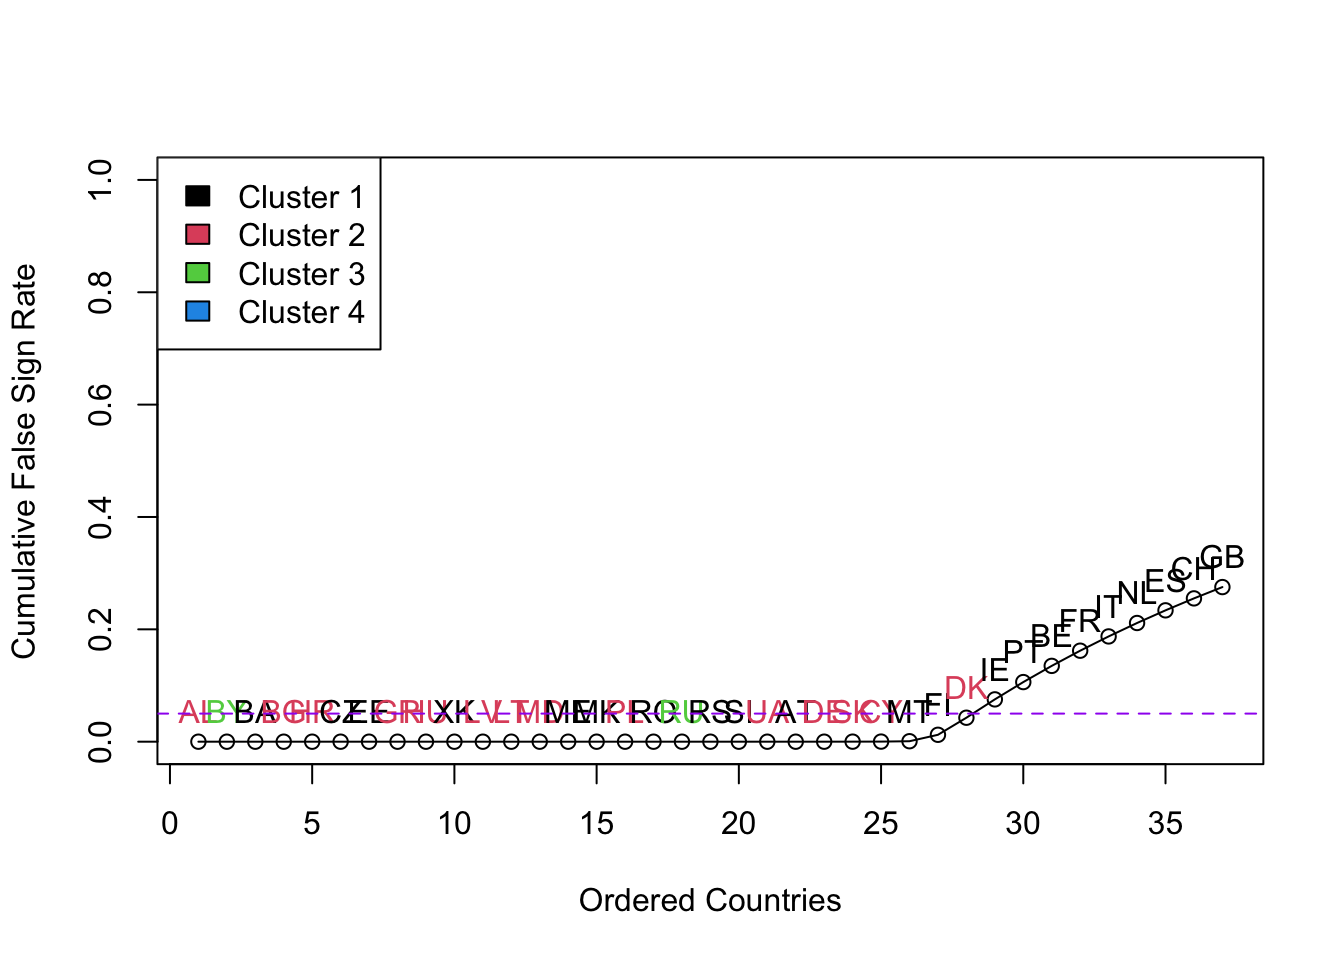
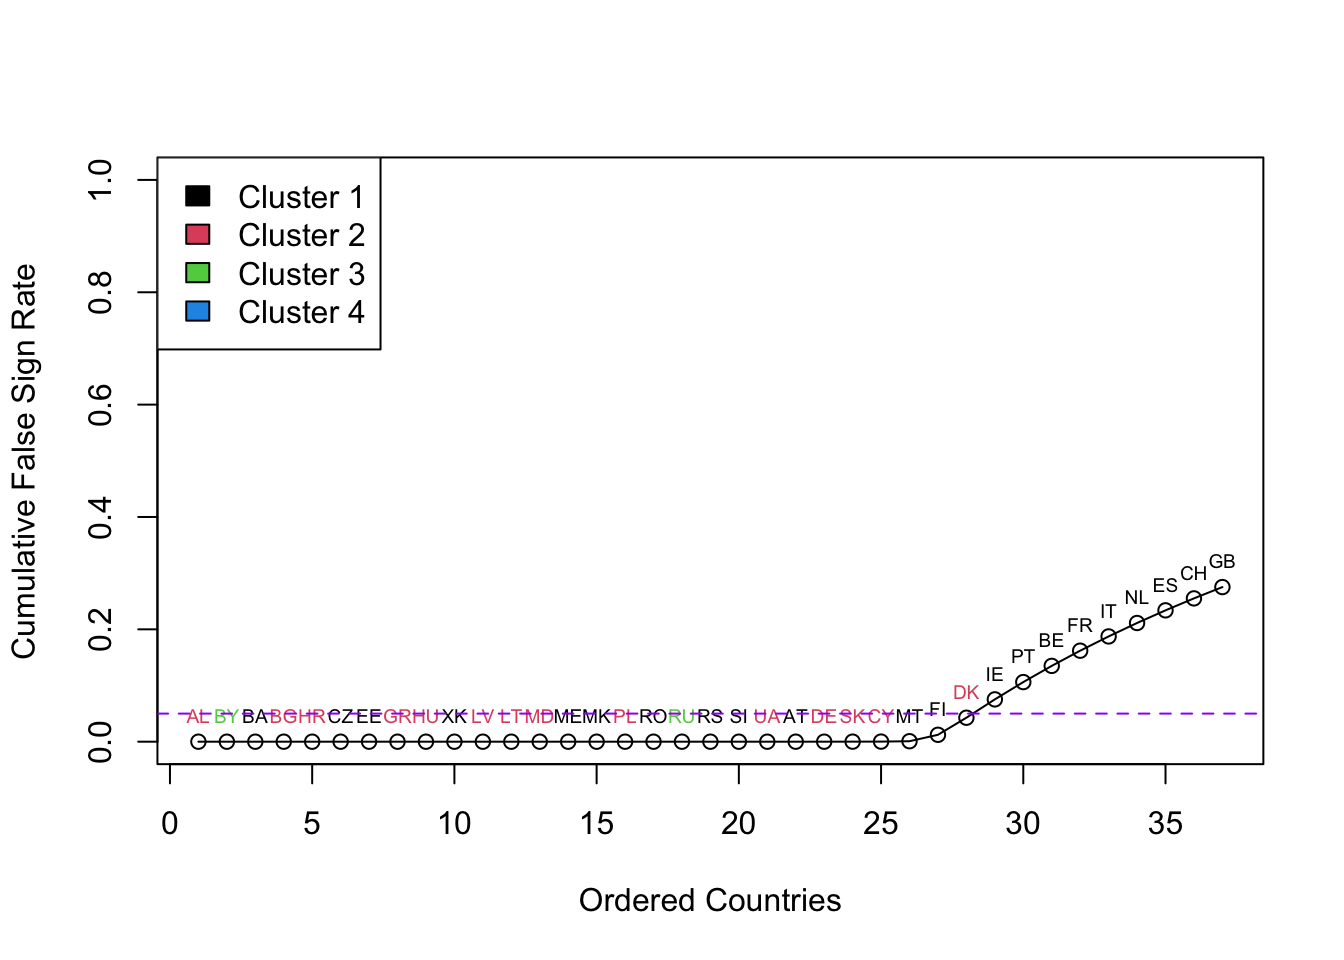
Build site.

Changed region(s): [[0.125, 0.6875, 0.75, 0.75], [0.75, 0.5625, 0.9375, 0.6875]]

diff --git a/docs/covid_example.html b/docs/covid_example.html
@@ -454,15 +454,15 @@ project makes it easier to run your code on other machines.</p>
 <div class="panel panel-default">
 <div class="panel-heading">
 <p class="panel-title">
-<a data-toggle="collapse" data-parent="#workflowr-checks" href="#strongRepositoryversionstrongahrefhttpsgithubcomAgueroZZFASHresultsummarytreeffc60c02d4c5692278285d2216b9181e670b7966targetblankffc60c0a">
+<a data-toggle="collapse" data-parent="#workflowr-checks" href="#strongRepositoryversionstrongahrefhttpsgithubcomAgueroZZFASHresultsummarytree8b21483eef1ab4634ebcac3d7f70072815c0e76etargetblank8b21483a">
 <span class="glyphicon glyphicon-ok text-success"
 aria-hidden="true"></span> <strong>Repository version:</strong>
-<a href="https://github.com/AgueroZZ/FASHresultsummary/tree/ffc60c02d4c5692278285d2216b9181e670b7966" target="_blank">ffc60c0</a>
+<a href="https://github.com/AgueroZZ/FASHresultsummary/tree/8b21483eef1ab4634ebcac3d7f70072815c0e76e" target="_blank">8b21483</a>
 </a>
 </p>
 </div>
 <div
[2 lines of base64/hex data omitted]
 class="panel-collapse collapse">
 <div class="panel-body">
 <p>
@@ -472,7 +472,7 @@ reproducibility.
 </p>
 <p>
 The results in this page were generated with repository version
-<a href="https://github.com/AgueroZZ/FASHresultsummary/tree/ffc60c02d4c5692278285d2216b9181e670b7966" target="_blank">ffc60c0</a>.
+<a href="https://github.com/AgueroZZ/FASHresultsummary/tree/8b21483eef1ab4634ebcac3d7f70072815c0e76e" target="_blank">8b21483</a>.
 See the <em>Past versions</em> tab to see a history of the changes made
 to the R Markdown and HTML files.
 </p>
@@ -582,6 +582,40 @@ Message
 </tr>
 </thead>
 <tbody>
+<tr>
+<td>
+Rmd
+</td>
+<td>
+<a href="https://github.com/AgueroZZ/FASHresultsummary/blob/8b21483eef1ab4634ebcac3d7f70072815c0e76e/analysis/covid_example.Rmd" target="_blank">8b21483</a>
+</td>
+<td>
+Ziang Zhang
+</td>
+<td>
+2024-05-27
+</td>
+<td>
+wflow_publish(files = "analysis/covid_example.Rmd")
+</td>
+</tr>
+<tr>
+<td>
+html
+</td>
+<td>
+<a href="https://rawcdn.githack.com/AgueroZZ/FASHresultsummary/8c38a399b5ec84d0a687fd322b4a7182cfd6fd1c/docs/covid_example.html" target="_blank">8c38a39</a>
+</td>
+<td>
+Ziang Zhang
+</td>
+<td>
+2024-05-27
+</td>
+<td>
+Build site.
+</td>
+</tr>
 <tr>
 <td>
 Rmd
@@ -897,6 +931,17 @@ Date
 <tbody>
 <tr>
 <td>
+<a href="https://github.com/AgueroZZ/FASHresultsummary/blob/8c38a399b5ec84d0a687fd322b4a7182cfd6fd1c/docs/figure/covid_example.Rmd/unnamed-chunk-3-1.png" target="_blank">8c38a39</a>
+</td>
+<td>
+Ziang Zhang
+</td>
+<td>
+2024-05-27
+</td>
+</tr>
+<tr>
+<td>
 <a href="https://github.com/AgueroZZ/FASHresultsummary/blob/574c0a1d89e247cb316d9ac322374ddc8209c5f8/docs/figure/covid_example.Rmd/unnamed-chunk-3-1.png" target="_blank">574c0a1</a>
 </td>
 <td>
@@ -991,6 +1036,17 @@ Date
 <tbody>
 <tr>
 <td>
+<a href="https://github.com/AgueroZZ/FASHresultsummary/blob/8c38a399b5ec84d0a687fd322b4a7182cfd6fd1c/docs/figure/covid_example.Rmd/unnamed-chunk-6-1.png" target="_blank">8c38a39</a>
+</td>
+<td>
+Ziang Zhang
+</td>
+<td>
+2024-05-27
+</td>
+</tr>
+<tr>
+<td>
 <a href="https://github.com/AgueroZZ/FASHresultsummary/blob/c77538439dcf55a178a6cba7728062bbf0c58d5f/docs/figure/covid_example.Rmd/unnamed-chunk-6-1.png" target="_blank">c775384</a>
 </td>
 <td>
@@ -1083,6 +1139,17 @@ Date
 </tr>
 </thead>
 <tbody>
+<tr>
+<td>
+<a href="https://github.com/AgueroZZ/FASHresultsummary/blob/8c38a399b5ec84d0a687fd322b4a7182cfd6fd1c/docs/figure/covid_example.Rmd/unnamed-chunk-9-1.png" target="_blank">8c38a39</a>
+</td>
+<td>
+Ziang Zhang
+</td>
+<td>
+2024-05-27
+</td>
+</tr>
 <tr>
 <td>
 <a href="https://github.com/AgueroZZ/FASHresultsummary/blob/c77538439dcf55a178a6cba7728062bbf0c58d5f/docs/figure/covid_example.Rmd/unnamed-chunk-9-1.png" target="_blank">c775384</a>
@@ -1180,6 +1247,17 @@ Date
 <tbody>
 <tr>
 <td>
+<a href="https://github.com/AgueroZZ/FASHresultsummary/blob/8c38a399b5ec84d0a687fd322b4a7182cfd6fd1c/docs/figure/covid_example.Rmd/unnamed-chunk-10-1.png" target="_blank">8c38a39</a>
+</td>
+<td>
+Ziang Zhang
+</td>
+<td>
+2024-05-27
+</td>
+</tr>
+<tr>
+<td>
 <a href="https://github.com/AgueroZZ/FASHresultsummary/blob/c77538439dcf55a178a6cba7728062bbf0c58d5f/docs/figure/covid_example.Rmd/unnamed-chunk-10-1.png" target="_blank">c775384</a>
 </td>
 <td>
@@ -1249,6 +1327,17 @@ Date
 <tbody>
 <tr>
 <td>
+<a href="https://github.com/AgueroZZ/FASHresultsummary/blob/8c38a399b5ec84d0a687fd322b4a7182cfd6fd1c/docs/figure/covid_example.Rmd/unnamed-chunk-11-1.png" target="_blank">8c38a39</a>
+</td>
+<td>
+Ziang Zhang
+</td>
+<td>
+2024-05-27
+</td>
+</tr>
+<tr>
+<td>
 <a href="https://github.com/AgueroZZ/FASHresultsummary/blob/c77538439dcf55a178a6cba7728062bbf0c58d5f/docs/figure/covid_example.Rmd/unnamed-chunk-11-1.png" target="_blank">c775384</a>
 </td>
 <td>
@@ -1311,6 +1400,17 @@ Date
 <tbody>
 <tr>
 <td>
+<a href="https://github.com/AgueroZZ/FASHresultsummary/blob/8c38a399b5ec84d0a687fd322b4a7182cfd6fd1c/docs/figure/covid_example.Rmd/unnamed-chunk-12-1.png" target="_blank">8c38a39</a>
+</td>
+<td>
+Ziang Zhang
+</td>
+<td>
+2024-05-27
+</td>
+</tr>
+<tr>
+<td>
 <a href="https://github.com/AgueroZZ/FASHresultsummary/blob/c77538439dcf55a178a6cba7728062bbf0c58d5f/docs/figure/covid_example.Rmd/unnamed-chunk-12-1.png" target="_blank">c775384</a>
 </td>
 <td>
@@ -1371,6 +1471,17 @@ Date
 </tr>
 </thead>
 <tbody>
+<tr>
+<td>
+<a href="https://github.com/AgueroZZ/FASHresultsummary/blob/8c38a399b5ec84d0a687fd322b4a7182cfd6fd1c/docs/figure/covid_example.Rmd/unnamed-chunk-13-1.png" target="_blank">8c38a39</a>
+</td>
+<td>
+Ziang Zhang
+</td>
+<td>
+2024-05-27
+</td>
+</tr>
 <tr>
 <td>
 <a href="https://github.com/AgueroZZ/FASHresultsummary/blob/c77538439dcf55a178a6cba7728062bbf0c58d5f/docs/figure/covid_example.Rmd/unnamed-chunk-13-1.png" target="_blank">c775384</a>
@@ -1486,6 +1597,43 @@ for (country in cluster1_countries[1:16]) {
   hist(samples, main = paste0(country), xlab = &quot;Delta - Initial&quot;, ylab = &quot;Frequency&quot;, col = &quot;blue&quot;, breaks = 50)
 }</code></pre>
 <p><img src="figure/covid_example.Rmd/unnamed-chunk-17-1.png" width="672" style="display: block; margin: auto;" /></p>
+<p>
+<button type="button" class="btn btn-default btn-xs btn-workflowr btn-workflowr-fig" data-toggle="collapse" data-target="#fig-unnamed-chunk-17-1">
+Past versions of unnamed-chunk-17-1.png
+</button>
+</p>
+<div id="fig-unnamed-chunk-17-1" class="collapse">
+<div class="table-responsive">
+<table class="table table-condensed table-hover">
+<thead>
+<tr>
+<th>
+Version
+</th>
+<th>
+Author
+</th>
+<th>
+Date
+</th>
+</tr>
+</thead>
+<tbody>
+<tr>
+<td>
+<a href="https://github.com/AgueroZZ/FASHresultsummary/blob/8c38a399b5ec84d0a687fd322b4a7182cfd6fd1c/docs/figure/covid_example.Rmd/unnamed-chunk-17-1.png" target="_blank">8c38a39</a>
+</td>
+<td>
+Ziang Zhang
+</td>
+<td>
+2024-05-27
+</td>
+</tr>
+</tbody>
+</table>
+</div>
+</div>
 <p>Produce a histogram for country in cluster 2:</p>
 <pre class="r"><code>par(mfrow = c(4, 4), mar = c(2, 2, 1, 1))
 for (country in cluster2_countries[1:14]) {
@@ -1515,6 +1663,17 @@ Date
 </tr>
 </thead>
 <tbody>
+<tr>
+<td>
+<a href="https://github.com/AgueroZZ/FASHresultsummary/blob/8c38a399b5ec84d0a687fd322b4a7182cfd6fd1c/docs/figure/covid_example.Rmd/unnamed-chunk-18-1.png" target="_blank">8c38a39</a>
+</td>
+<td>
+Ziang Zhang
+</td>
+<td>
+2024-05-27
+</td>
+</tr>
 <tr>
 <td>
 <a href="https://github.com/AgueroZZ/FASHresultsummary/blob/c77538439dcf55a178a6cba7728062bbf0c58d5f/docs/figure/covid_example.Rmd/unnamed-chunk-18-1.png" target="_blank">c775384</a>
@@ -1572,6 +1731,17 @@ Date
 <tbody>
 <tr>
 <td>
+<a href="https://github.com/AgueroZZ/FASHresultsummary/blob/8c38a399b5ec84d0a687fd322b4a7182cfd6fd1c/docs/figure/covid_example.Rmd/unnamed-chunk-19-1.png" target="_blank">8c38a39</a>
+</td>
+<td>
+Ziang Zhang
+</td>
+<td>
+2024-05-27
+</td>
+</tr>
+<tr>
+<td>
 <a href="https://github.com/AgueroZZ/FASHresultsummary/blob/c77538439dcf55a178a6cba7728062bbf0c58d5f/docs/figure/covid_example.Rmd/unnamed-chunk-19-1.png" target="_blank">c775384</a>
 </td>
 <td>
@@ -1609,7 +1779,7 @@ ordered_false_sign_rate_delta_more &lt;- sort(loca_false_sign_rate_delta_more)
 cumulative_false_sign_rate_delta_more &lt;- cumsum(ordered_false_sign_rate_delta_more)/seq_along(ordered_false_sign_rate_delta_more)
 clusters_ordered &lt;- clusters[match(names(ordered_false_sign_rate_delta_more), names(clusters))]
 plot(cumulative_false_sign_rate_delta_more, type = &quot;o&quot;, xlab = &quot;Ordered Countries&quot;, ylab = &quot;Cumulative False Sign Rate&quot;, ylim = c(0,1))
-text(1:length(cumulative_false_sign_rate_delta_more), cumulative_false_sign_rate_delta_more, labels = names(cumulative_false_sign_rate_delta_more), pos = 3, cex = 1, col = clusters_ordered)
+text(1:length(cumulative_false_sign_rate_delta_more), cumulative_false_sign_rate_delta_more, labels = names(cumulative_false_sign_rate_delta_more), pos = 3, cex = 0.6, col = clusters_ordered)
 legend(&quot;topleft&quot;, legend = c(&quot;Cluster 1&quot;, &quot;Cluster 2&quot;, &quot;Cluster 3&quot;, &quot;Cluster 4&quot;), fill = c(1, 2, 3, 4))
 abline(h = 0.05, col = &quot;purple&quot;, lty = &quot;dashed&quot;)</code></pre>
 <p><img src="figure/covid_example.Rmd/unnamed-chunk-20-1.png" width="672" style="display: block; margin: auto;" /></p>
@@ -1635,6 +1805,17 @@ Date
 </tr>
 </thead>
 <tbody>
+<tr>
+<td>
+<a href="https://github.com/AgueroZZ/FASHresultsummary/blob/8c38a399b5ec84d0a687fd322b4a7182cfd6fd1c/docs/figure/covid_example.Rmd/unnamed-chunk-20-1.png" target="_blank">8c38a39</a>
+</td>
+<td>
+Ziang Zhang
+</td>
+<td>
+2024-05-27
+</td>
+</tr>
 <tr>
 <td>
 <a href="https://github.com/AgueroZZ/FASHresultsummary/blob/c77538439dcf55a178a6cba7728062bbf0c58d5f/docs/figure/covid_example.Rmd/unnamed-chunk-20-1.png" target="_blank">c775384</a>
@@ -1685,7 +1866,7 @@ cumulative_false_sign_rate_initial_more</code></pre>
 0.724770270 </code></pre>
 <pre class="r"><code>clusters_ordered &lt;- clusters[match(names(ordered_false_sign_rate_initial_more), names(clusters))]
 plot(cumulative_false_sign_rate_initial_more, type = &quot;o&quot;, xlab = &quot;Ordered Countries&quot;, ylab = &quot;Cumulative False Sign Rate&quot;, ylim = c(0,1))
-text(1:length(cumulative_false_sign_rate_initial_more), cumulative_false_sign_rate_initial_more, labels = names(cumulative_false_sign_rate_initial_more), pos = 3, cex = 1, col = clusters_ordered)
+text(1:length(cumulative_false_sign_rate_initial_more), cumulative_false_sign_rate_initial_more, labels = names(cumulative_false_sign_rate_initial_more), pos = 3, cex = 0.6, col = clusters_ordered)
 legend(&quot;topleft&quot;, legend = c(&quot;Cluster 1&quot;, &quot;Cluster 2&quot;, &quot;Cluster 3&quot;, &quot;Cluster 4&quot;), fill = c(1, 2, 3, 4))
 abline(h = 0.05, col = &quot;purple&quot;, lty = &quot;dashed&quot;)</code></pre>
 <p><img src="figure/covid_example.Rmd/unnamed-chunk-21-1.png" width="672" style="display: block; margin: auto;" /></p>
@@ -1711,6 +1892,17 @@ Date
 </tr>
 </thead>
 <tbody>
+<tr>
+<td>
+<a href="https://github.com/AgueroZZ/FASHresultsummary/blob/8c38a399b5ec84d0a687fd322b4a7182cfd6fd1c/docs/figure/covid_example.Rmd/unnamed-chunk-21-1.png" target="_blank">8c38a39</a>
+</td>
+<td>
+Ziang Zhang
+</td>
+<td>
+2024-05-27
+</td>
+</tr>
 <tr>
 <td>
 <a href="https://github.com/AgueroZZ/FASHresultsummary/blob/c77538439dcf55a178a6cba7728062bbf0c58d5f/docs/figure/covid_example.Rmd/unnamed-chunk-21-1.png" target="_blank">c775384</a>
